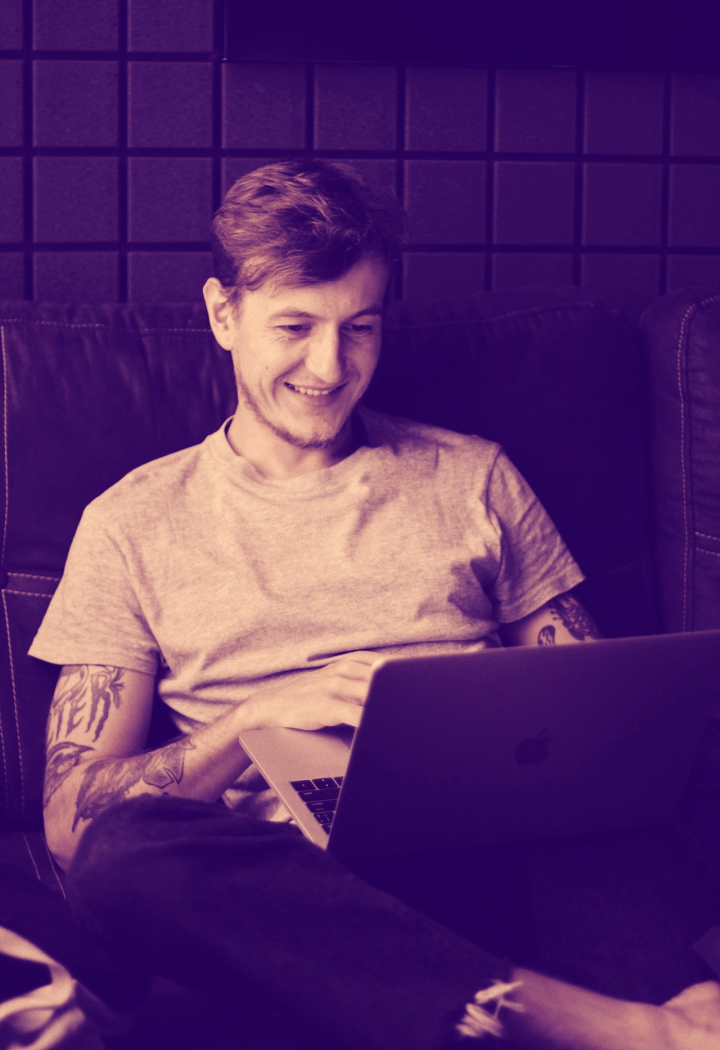
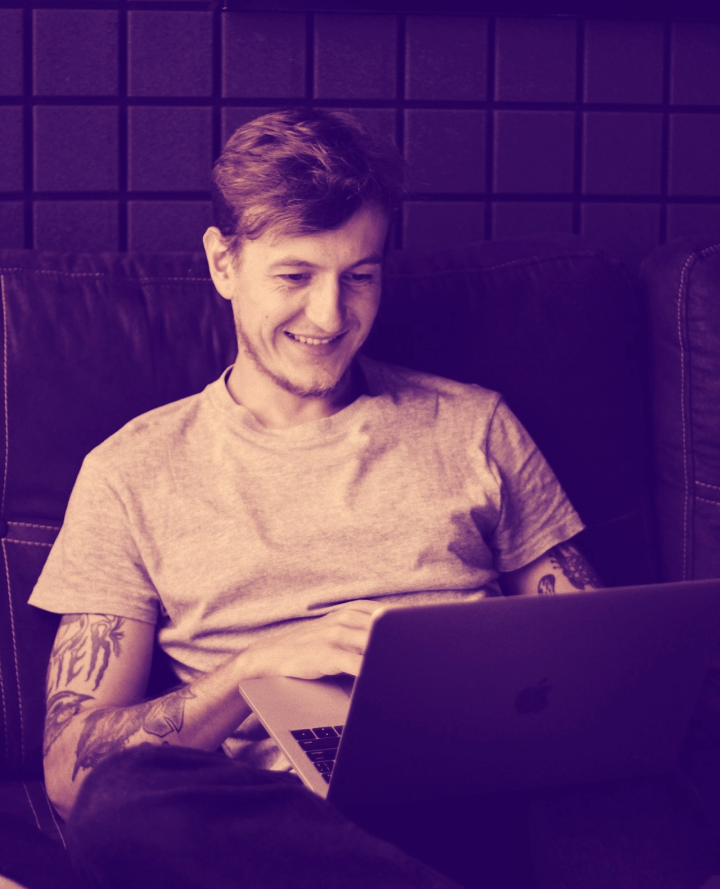
chore: edit full home style desktop

diff --git a/talk-to-me-project/src/app/page.tsx b/talk-to-me-project/src/app/page.tsx
@@ -8,11 +8,11 @@ import { FaLinkedin } from "react-icons/fa";
 export default function Home() {
   return (
     <body className="h-max">
-      <nav className="w-full flex bg-background">
-        <div className="p-6 w-1/2">
+      <nav className="w-full absolute flex bg-background">
+        <div className="p-4 w-1/2">
           <img src={primaryLogo.src} className="w-44"></img>
         </div>
-        <div className="p-6 flex justify-end w-1/2">
+        <div className="p-4 flex justify-end w-1/2">
           <div className="flex space-x-2">
             <Button variant={"secondary"}>
               <Link href="/pages/sign-in">Entrar</Link>
@@ -24,17 +24,20 @@ export default function Home() {
         </div>
       </nav>
       <main className="flex bg-gradient-to-b from-background to-foreground ">
-        <div className="w-1/2 flex flex-col items-center">
-          <div className="w-1/2 flex flex-col items-center space-y-3 mb-16">
-            <text className="text-xl text-primary">
-              Encontre. Converse. Confie.
+        <div className="w-1/2 flex flex-col items-center mt-40">
+          <div className="w-100 flex flex-col space-y-1 mb-20">
+            <text className="text-4xl text-primary">
+              Boas vindas à sua <span className="text-foreground font-bold">nova</span>
+            </text>
+            <text className="text-4xl text-primary text-center">
+              <span className="text-foreground font-bold">plataforma</span> de <span className="text-foreground font-bold">chat</span>.
             </text>
           </div>
-          <img src={secondaryLogo.src} className="w-96 h-auto"></img>
+          <img src={secondaryLogo.src} className="2xl:w-auto h-auto xl:w-96"></img>
         </div>
         <div className="w-1/2 flex flex-col items-center">
-          <img src={bgImage.src} className="w-full h-auto"></img>
-          <div className="absolute right-12 top-40 text-start">
+          <img src={bgImage.src} className="w-full h-full"></img>
+          <div className="absolute right-14 top-40 text-start">
             <p className="text-2xl text-primary font-light">Crie sua conta.</p>
             <p className="text-2xl text-primary font-light">É grátis!</p>
           </div>

diff --git a/talk-to-me-project/tailwind.config.ts b/talk-to-me-project/tailwind.config.ts
@@ -2,17 +2,30 @@
 module.exports = {
   darkMode: ["class"],
   content: [
-    './pages/**/*.{ts,tsx}',
-    './components/**/*.{ts,tsx}',
-    './app/**/*.{ts,tsx}',
-    './src/**/*.{ts,tsx}',
-	],
+    "./pages/**/*.{ts,tsx}",
+    "./components/**/*.{ts,tsx}",
+    "./app/**/*.{ts,tsx}",
+    "./src/**/*.{ts,tsx}",
+  ],
   theme: {
     container: {
       center: true,
       padding: "2rem",
       screens: {
-        "2xl": "1400px",
+        'sm': {'min': '640px', 'max': '767px'},
+        // => @media (min-width: 640px and max-width: 767px) { ... }
+  
+        'md': {'min': '768px', 'max': '1023px'},
+        // => @media (min-width: 768px and max-width: 1023px) { ... }
+  
+        'lg': {'min': '1024px', 'max': '1279px'},
+        // => @media (min-width: 1024px and max-width: 1279px) { ... }
+  
+        'xl': {'min': '1280px', 'max': '1535px'},
+        // => @media (min-width: 1280px and max-width: 1535px) { ... }
+  
+        '2xl': {'min': '1536px'},
+        // => @media (min-width: 1536px) { ... }
       },
     },
     extend: {
@@ -73,4 +86,4 @@ module.exports = {
     },
   },
   plugins: [require("tailwindcss-animate")],
-}
+};
